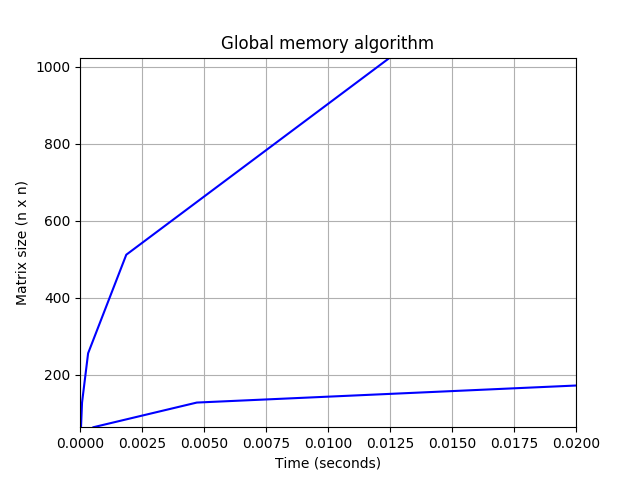
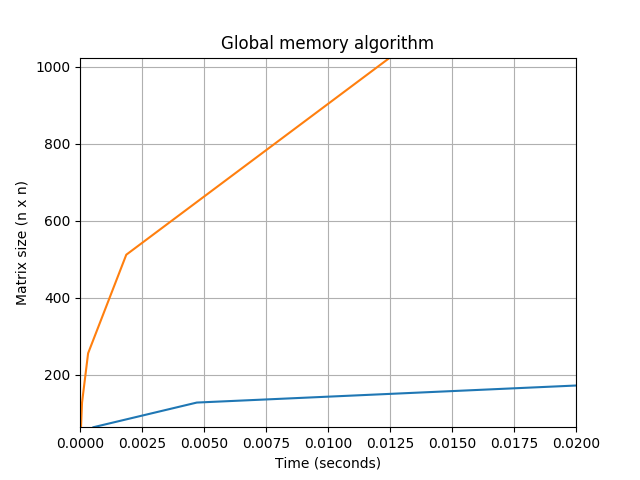
markdown doc

diff --git a/parcial2/segunda_parte/plotting.py b/parcial2/segunda_parte/plotting.py
@@ -30,7 +30,7 @@ plt.grid(True)
 plt.title('Secuential algorithm')
 plt.xlabel('Time (seconds)')
 plt.ylabel('Matrix size (n x n)')
-plt.plot(secExeTime, matSize, color='blue')
+plt.plot(secExeTime, matSize)
 #plt.show()
 fig1.savefig('images/secuential.png', format="png")
 
@@ -42,7 +42,7 @@ plt.grid(True)
 plt.title('Global memory algorithm')
 plt.xlabel('Time (seconds)')
 plt.ylabel('Matrix size (n x n)')
-plt.plot(globalExeTime, matSize, color='blue')
+plt.plot(globalExeTime, matSize)
 #plt.show()
 fig2.savefig('images/global.png', format="png")
 
@@ -54,7 +54,7 @@ plt.grid(True)
 plt.title('Shared memory algorithm')
 plt.xlabel('Time (seconds)')
 plt.ylabel('Matrix size (n x n)')
-plt.plot(globalExeTime, matSize, color='blue')
+plt.plot(globalExeTime, matSize)
 #plt.show()
 fig3.savefig('images/shared.png', format="png")
 
@@ -65,7 +65,7 @@ speedUpShared = [ans64[1]/ans64[3], ans128[1]/ans128[3], ans256[1]/ans256[3], an
 fig4 = plt.gcf()
 plt.axis([64, 1024, 0, 1300])
 plt.grid(True)
-plt.title('Speed up')
+plt.title('Speed up comparison')
 plt.ylabel('Speed up')
 plt.xlabel('Matrix size (n x n)')
 plt.plot(speedUpGlobal, matSize, speedUpShared,  matSize)
